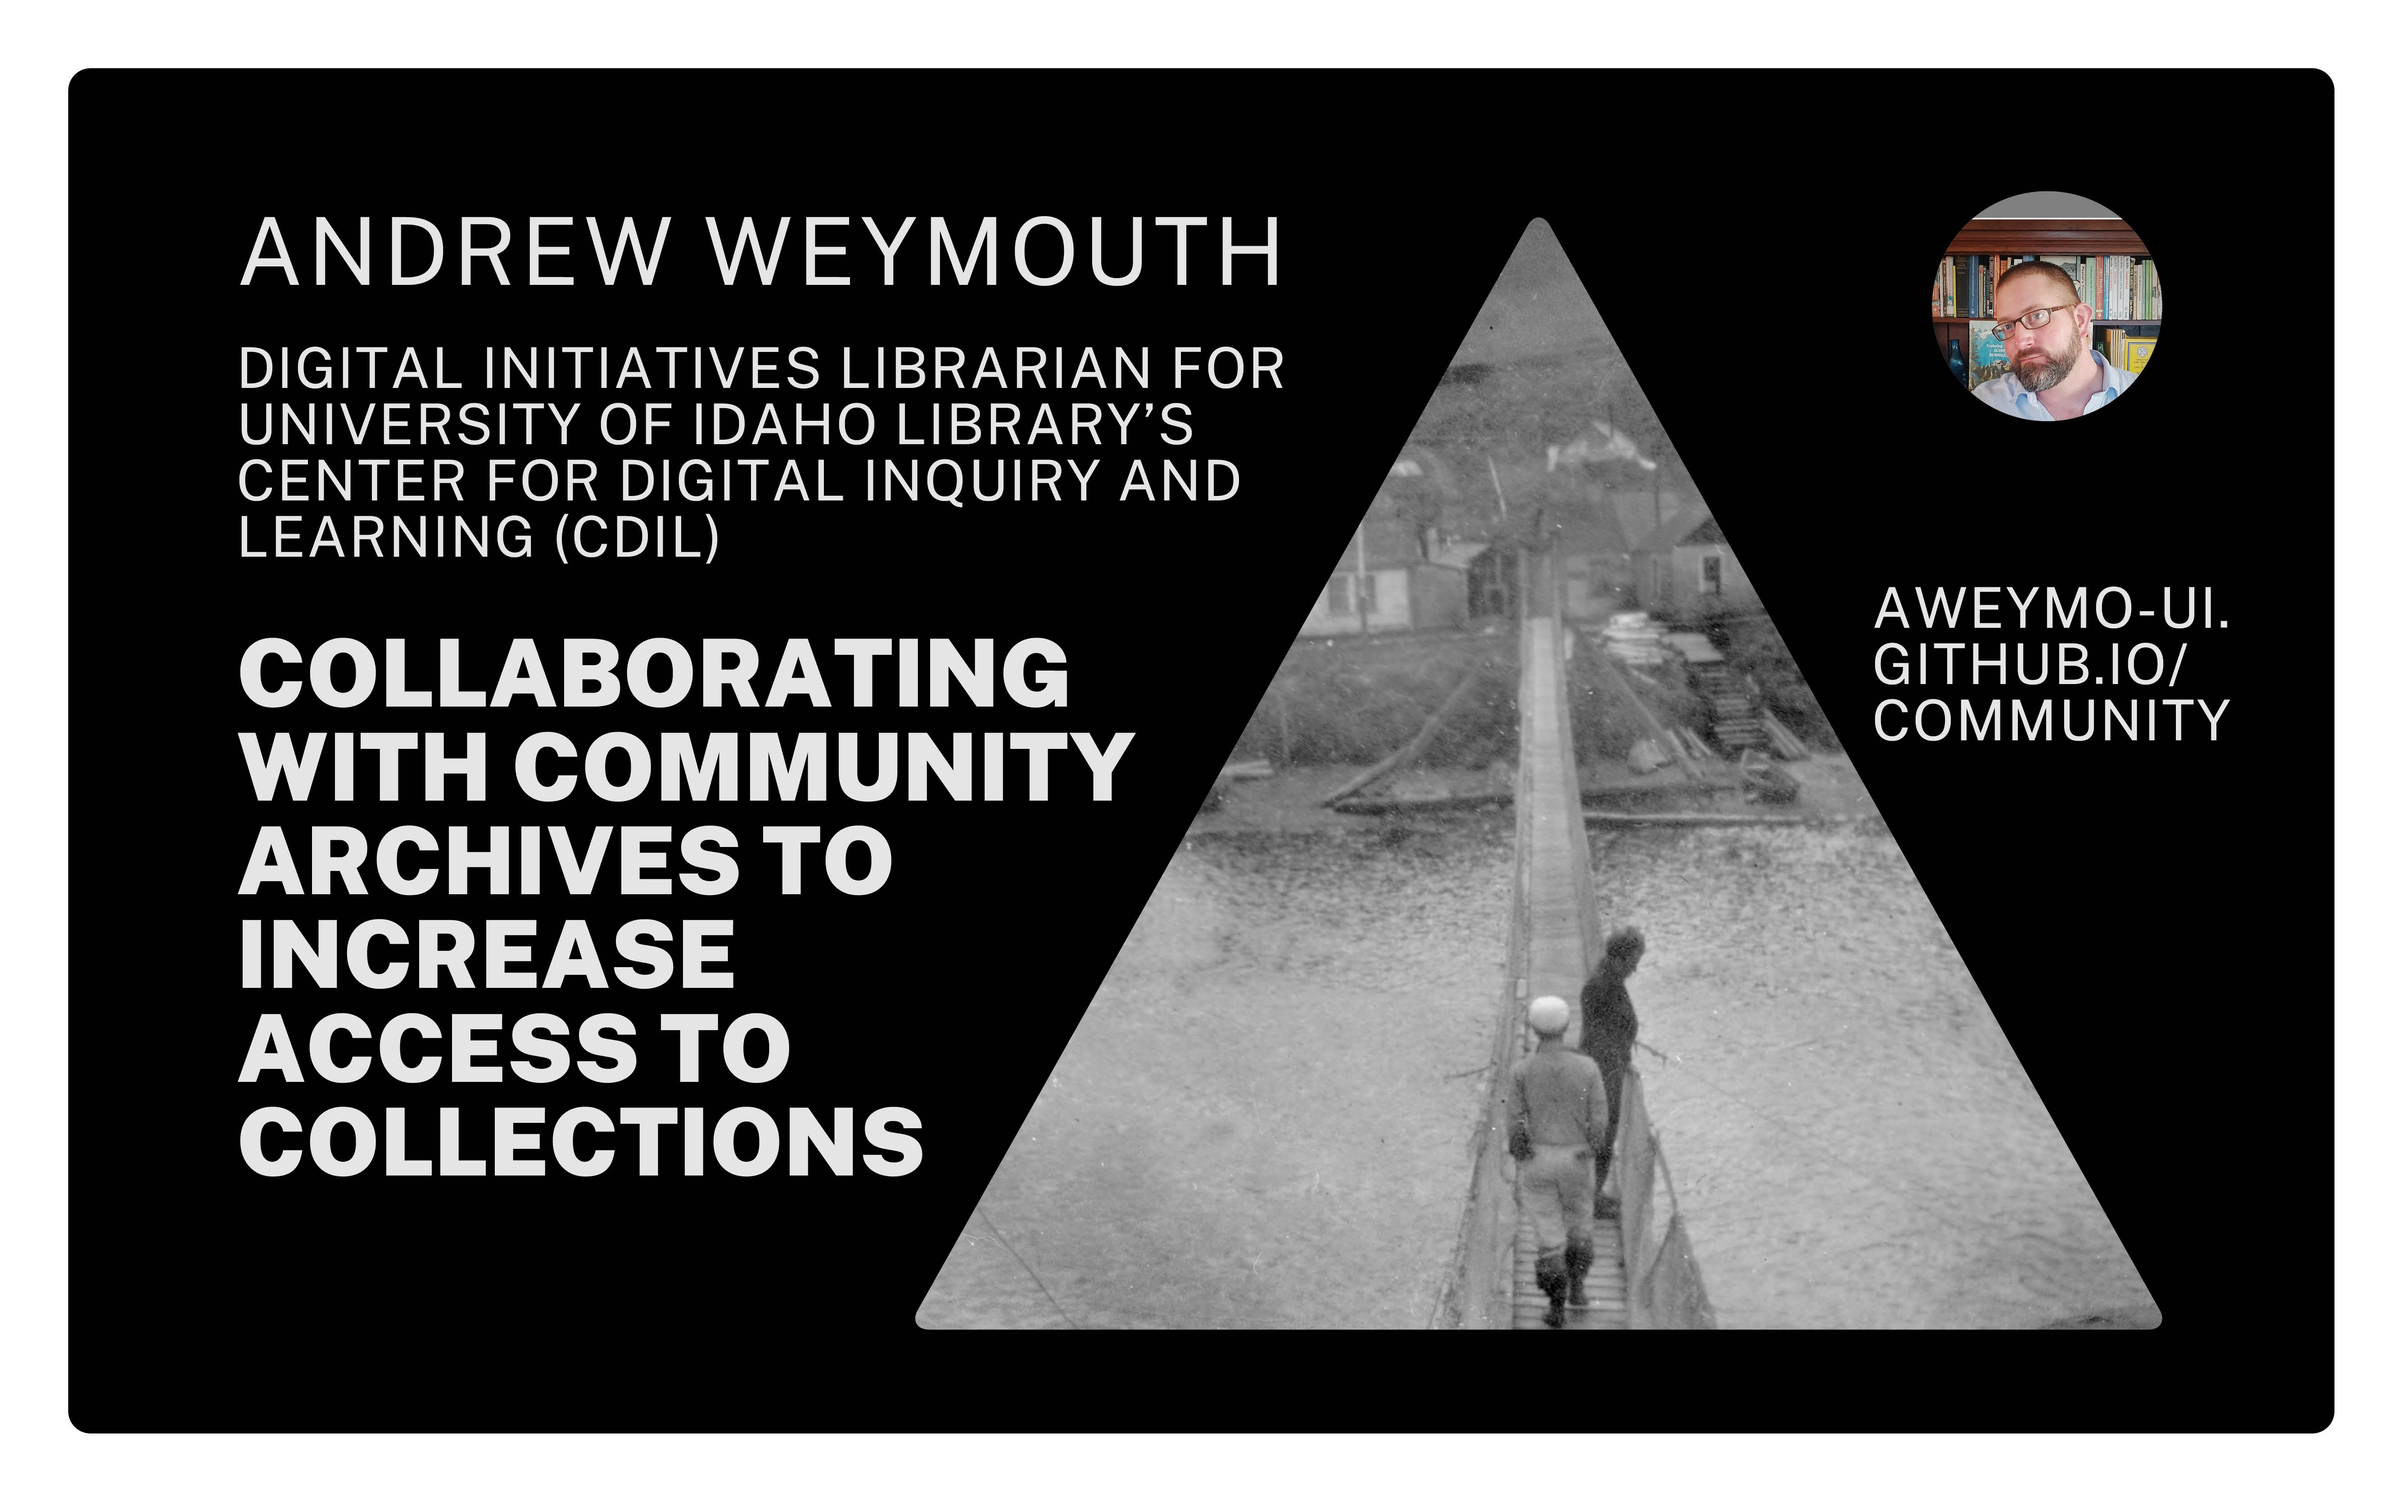
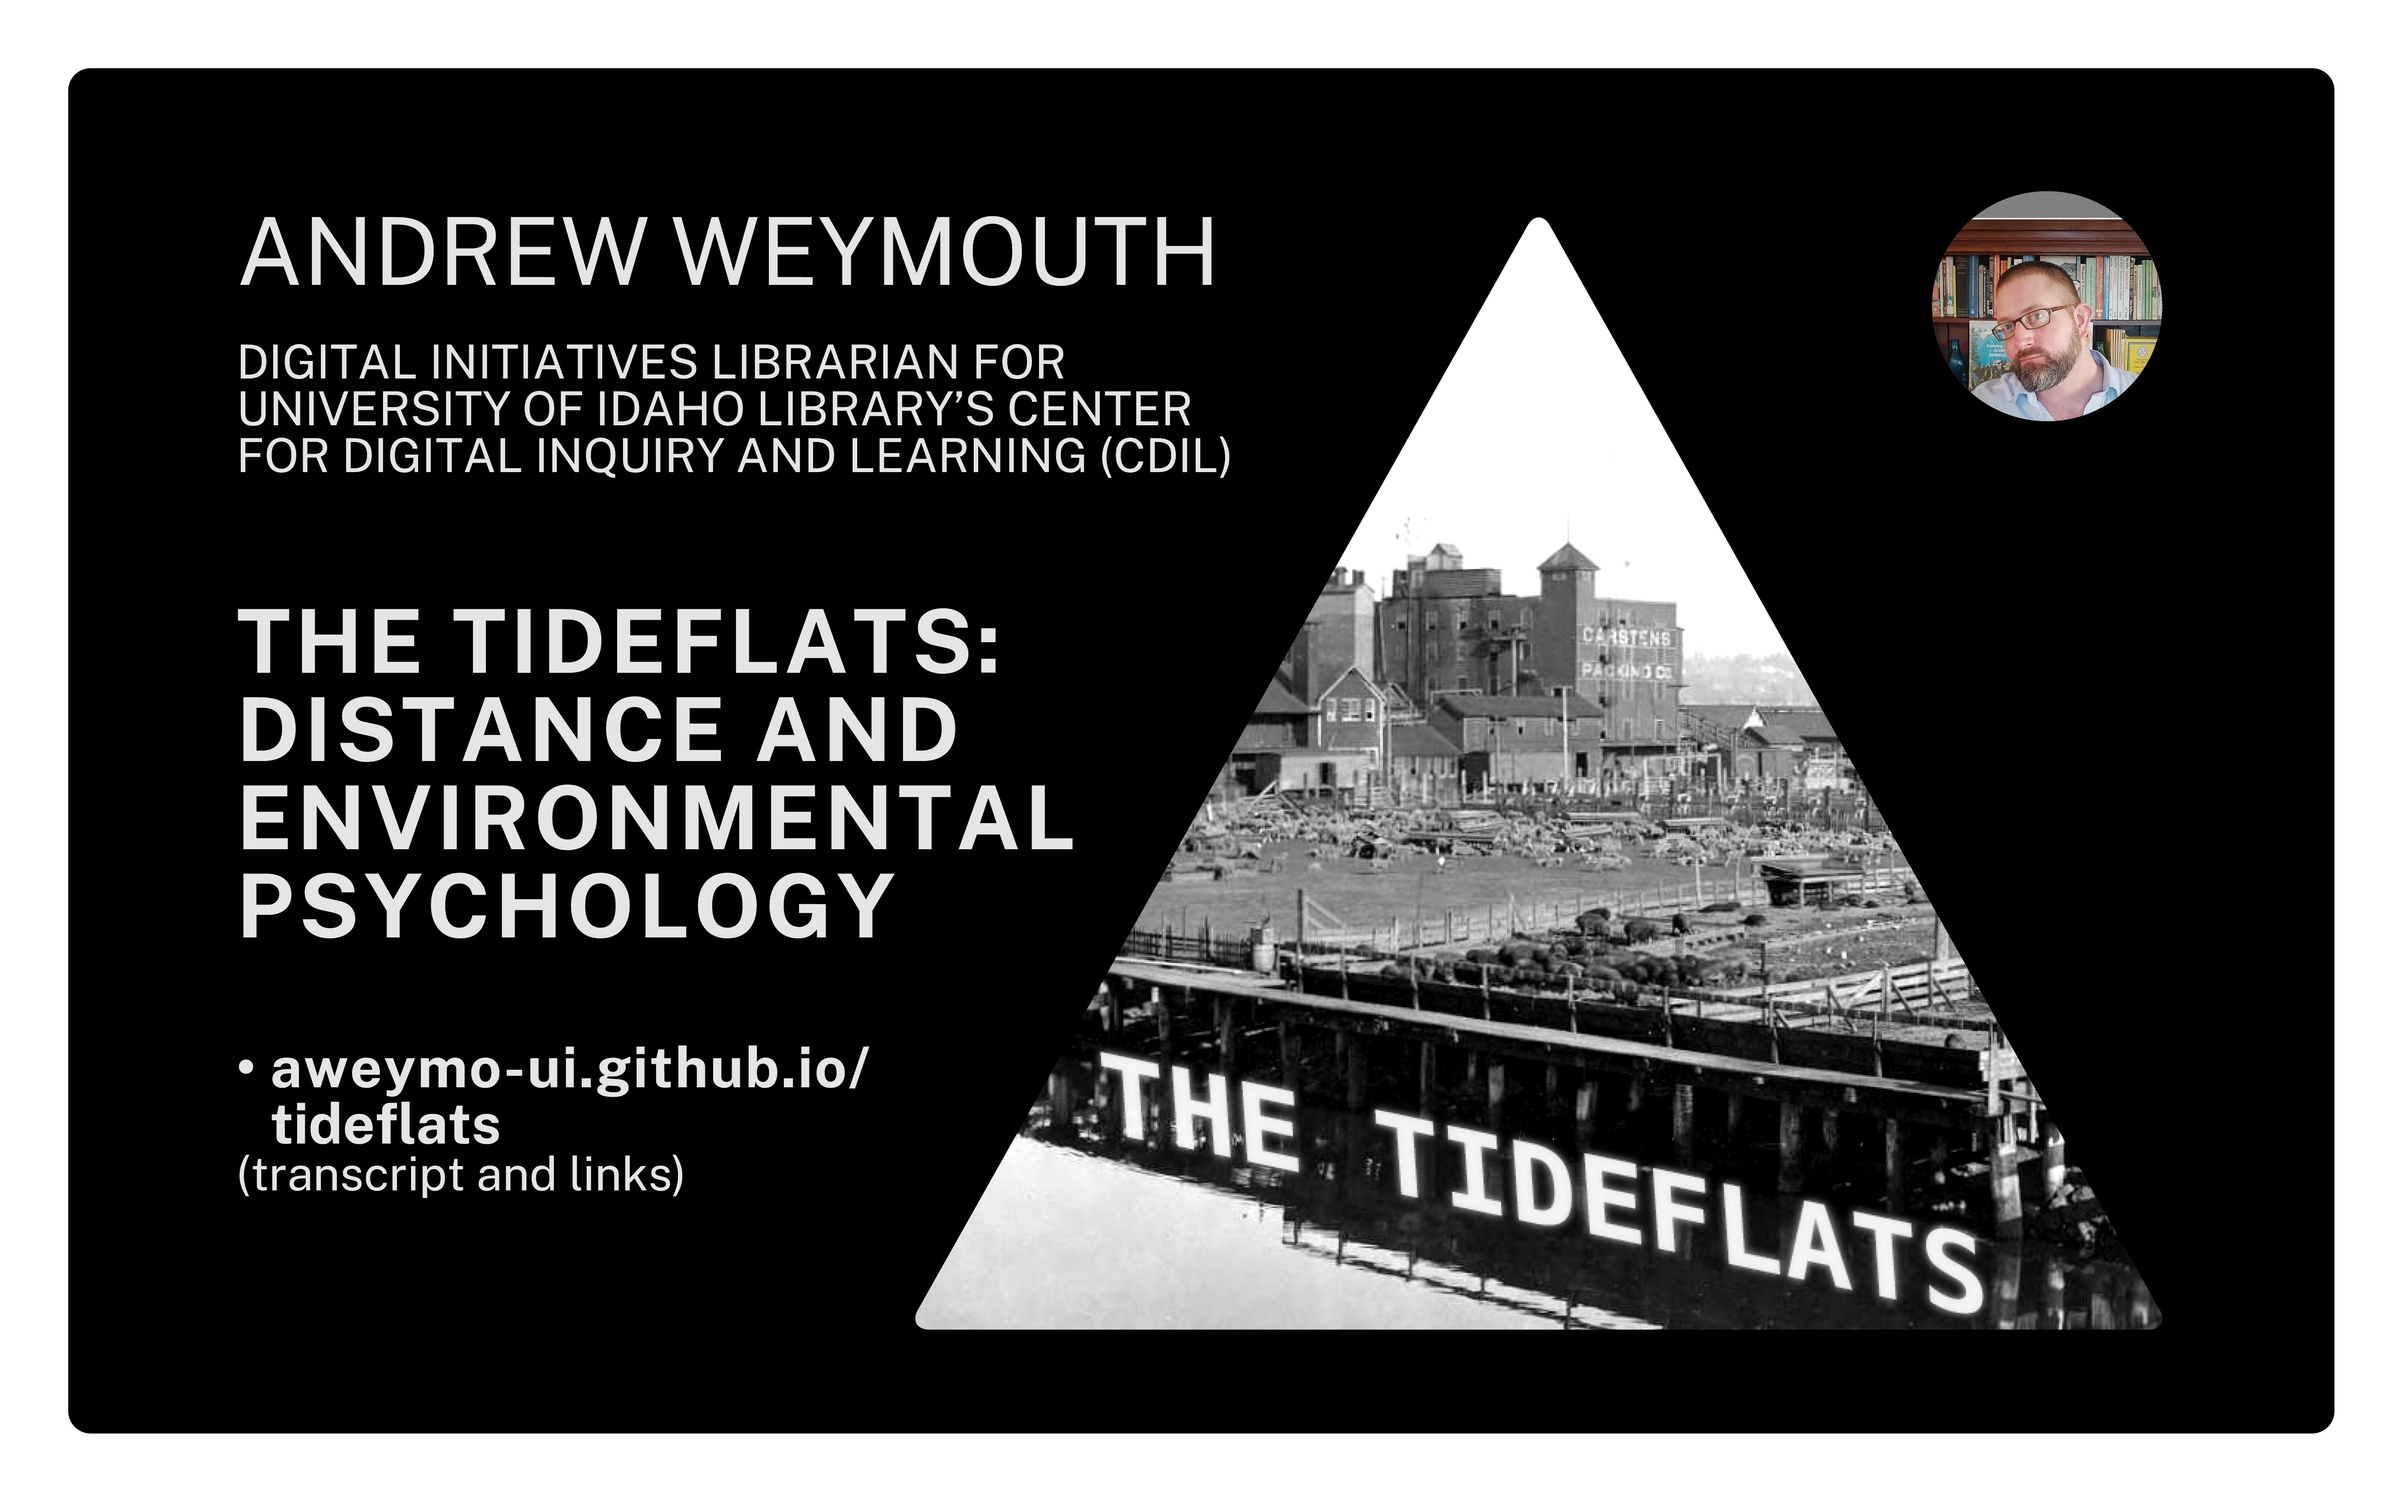
home configuration

Changed region(s): [[0.0934, 0.1248, 0.9338, 0.9049], [0.0934, 0.2184, 0.5292, 0.3744], [0.1245, 0.1248, 0.5292, 0.1872]]

diff --git a/index.md b/index.md
@@ -5,9 +5,9 @@ layout: page
 
 {% include figure.html img="banner.jpg" alt="title card with a photo of the author and a black and white photograph of two men on a rope bridge" caption="Presentation for Northwest Archivists 2024 conference" %}
 
-* [slides](https://indd.adobe.com/view/a84ba9f4-08af-4be3-a4cb-574283a32525)
+* [Slides](https://indd.adobe.com/view/de4744b4-d44f-4afc-96cb-f4a6a31b7d55)
 
-* [resulting article](https://maritimewa.org/story/through-a-filipino-lens-washington-state-cannery-workers-in-alaska/)
+* [Longform audio version of this presentation, created for the 2022 University of Washington Storytelling Fellows](https://andrewweymouth.bandcamp.com/album/the-tideflats)
 
 {% include toc.html %}
 
